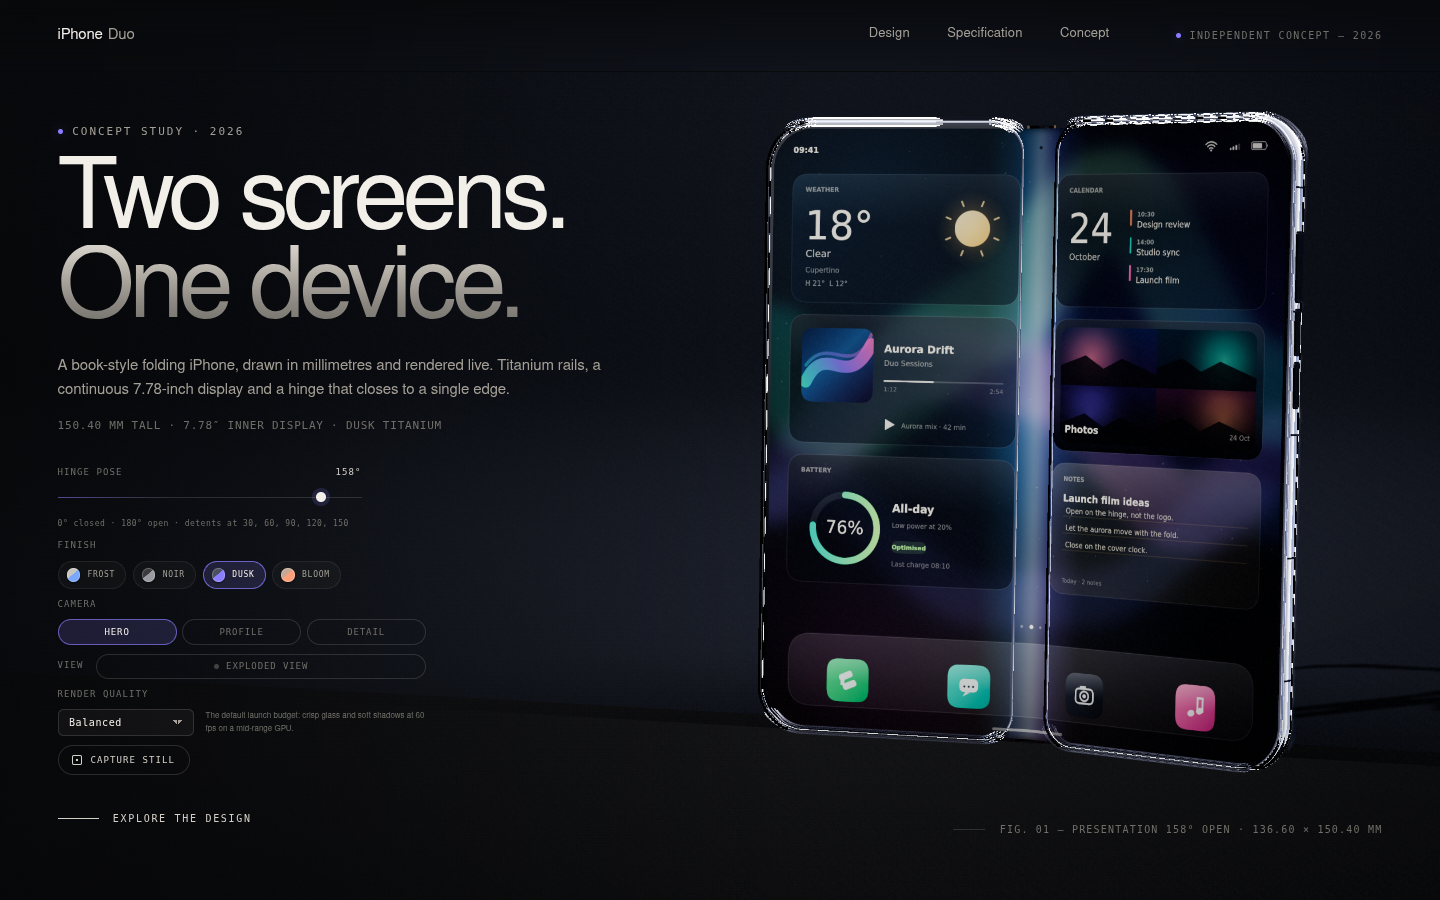
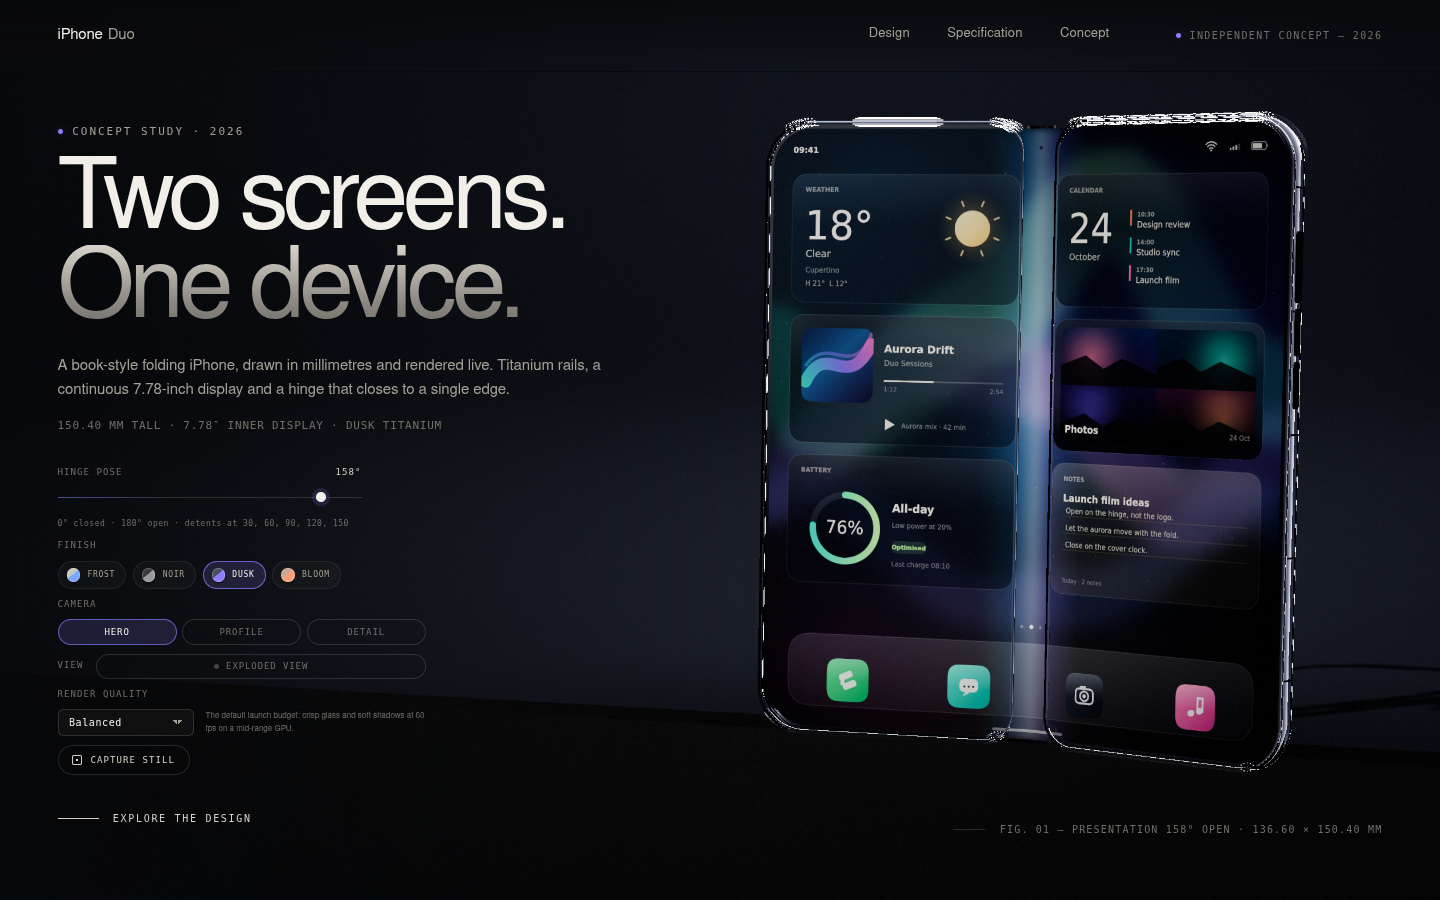
fix(art-direction): satin titanium, dimmer studio, smoother outlines and refreshed evidence

diff --git a/src/scene/materials.ts b/src/scene/materials.ts
@@ -87,13 +87,17 @@ export function createDeviceMaterials(palette: Colourway): DeviceMaterials {
   const frontGlass = physical({
     color: 0x04050a,
     metalness: reference.frame.frontGlass.metalness,
-    roughness: reference.frame.frontGlass.roughness,
-    clearcoat: reference.frame.frontGlass.clearcoat,
-    clearcoatRoughness: reference.frame.frontGlass.clearcoatRoughness,
+    // The backing plate is visible as a 2 mm border around the emissive panel.
+    // At 0.045 roughness that border mirrors the rim strip and aliases into a
+    // dashed white outline. The display's own glass overlay keeps the sheet's
+    // glossy reflection; this substrate stays matte so the panel edge reads as
+    // a seam, not a light leak.
+    roughness: 0.12,
+    clearcoat: 0.8,
+    clearcoatRoughness: 0.1,
     ior: reference.frame.frontGlass.ior,
-    roughnessMap: maps.scratch,
-    specularIntensity: 1,
-    envMapIntensity: 0.9,
+    specularIntensity: 0.8,
+    envMapIntensity: 0.5,
     side: DoubleSide,
   });
   frontGlass.name = 'ceramic-shield';

diff --git a/src/scene/studio.ts b/src/scene/studio.ts
@@ -567,7 +567,7 @@ export class StudioScene {
 
     const key = new SpotLight(
       new Color(reference.studio.key.color),
-      30,
+      25,
       7,
       0.5,
       1,
@@ -585,7 +585,7 @@ export class StudioScene {
 
     const rim = new SpotLight(
       new Color(reference.studio.rim.color),
-      21,
+      6,
       6,
       0.46,
       1,
@@ -603,7 +603,7 @@ export class StudioScene {
 
     const keyArea = new RectAreaLight(
       new Color(reference.studio.key.color),
-      2.3,
+      1.0,
       reference.studio.key.width,
       reference.studio.key.height,
     );
@@ -613,7 +613,7 @@ export class StudioScene {
 
     const fillArea = new RectAreaLight(
       new Color(reference.studio.fill.color),
-      0.9,
+      0.6,
       reference.studio.fill.width,
       reference.studio.fill.height,
     );
@@ -623,7 +623,7 @@ export class StudioScene {
 
     const scrim = new RectAreaLight(
       new Color(0xdbe5ff),
-      1.3,
+      0.6,
       1.6,
       1,
     );

diff --git a/src/scene/environment.ts b/src/scene/environment.ts
@@ -42,21 +42,21 @@ const SOFTBOXES: readonly Softbox[] = [
     height: reference.studio.key.height,
     position: [-1.78, 1.97, 1.78],
     color: reference.studio.key.color,
-    intensity: 2.6,
+    intensity: 1.25,
   },
   {
     width: reference.studio.rim.width,
     height: reference.studio.rim.height,
     position: [1.9, 1.5, -1.2],
     color: reference.studio.rim.color,
-    intensity: 1.9,
+    intensity: 0.85,
   },
   {
     width: reference.studio.fill.width,
     height: reference.studio.fill.height,
     position: [-1.1, 0.5, 1.7],
     color: reference.studio.fill.color,
-    intensity: 0.75,
+    intensity: 0.55,
   },
   {
     // A large scrim between camera and product. Its reflection is what makes
@@ -65,7 +65,7 @@ const SOFTBOXES: readonly Softbox[] = [
     height: 1.4,
     position: [0.1, 2.1, 2.5],
     color: '#dbe5ff',
-    intensity: 0.55,
+    intensity: 0.4,
   },
   {
     // A broad frontal bounce card, just above the camera axis. This is the

diff --git a/src/scene/framing.ts b/src/scene/framing.ts
@@ -38,7 +38,7 @@ export const HERO_FOV_DEGREES =
 /** Art direction that is not a product dimension. */
 const COMPOSITION = {
   /** Fraction of the viewport width the open device should occupy in portrait. */
-  portraitWidthFill: 0.8,
+  portraitWidthFill: 0.86,
   /** Device height as a fraction of the hero viewport at the desktop shot. */
   desktopHeightFill: 0.8,
   /** Screen fraction the device centre sits at on desktop (right of centre). */
@@ -114,7 +114,7 @@ export function computeHeroFraming(
   const portraitFitWidth = portraitRequiredWidth / (2 * halfFovTan * aspect);
 
   const settledDistance = portrait
-    ? Math.max(portraitFitWidth, projectedHeight / 0.4 / (2 * halfFovTan))
+    ? Math.max(portraitFitWidth, projectedHeight / 0.56 / (2 * halfFovTan))
     : Math.max(sheetDistance, fitHeightDistance, fitWidthDistance);
   const introEase = easeIntro(introProgress);
   const distance = settledDistance * (1.06 - 0.06 * introEase);

diff --git a/tests/domain/reference.test.ts b/tests/domain/reference.test.ts
@@ -222,11 +222,11 @@ describe('reference design sheet', () => {
   });
 
   it('defines the complete material family and procedural map contract', () => {
-    expect(reference.frame.rail.roughness).toBe(0.5);
+    expect(reference.frame.rail.roughness).toBe(0.68);
     expect(reference.frame.rail.clearcoat).toBe(0.015);
     expect(reference.frame.rail.metalness).toBe(0.92);
-    expect(reference.frame.rail.envMapIntensity).toBe(0.3);
-    expect(reference.frame.rail.tintGain).toBe(0.65);
+    expect(reference.frame.rail.envMapIntensity).toBe(0.16);
+    expect(reference.frame.rail.tintGain).toBe(0.58);
     expect(reference.frame.rail.anisotropy).toBe(0.3);
     expect(reference.frame.rail.anisotropyRotationDegrees).toBe(90);
     expect(reference.frame.frontGlass.roughness).toBe(0.045);

diff --git a/src/scene/device/duo-device.ts b/src/scene/device/duo-device.ts
@@ -75,7 +75,7 @@ const GLASS_PLATE_RADII: CornerRadii = BODY_RADII.map((radius) =>
 ) as unknown as CornerRadii;
 
 /** One outline sampling budget for the rail opening and every glass plate. */
-const OUTLINE_SEGMENTS = 20;
+const OUTLINE_SEGMENTS = 40;
 
 const BRIDGE_WIDTH = reference.hinge.bridgeLength;
 const PANEL_INNER = BRIDGE_WIDTH / 2;
@@ -225,6 +225,7 @@ export class DuoDevice implements DuoDeviceModel {
       roundOver: reference.body.railRoundOver,
       chamfer: reference.body.railChamfer,
       cornerSegments: OUTLINE_SEGMENTS,
+      roundOverSegments: 12,
     });
     this.geometries.push(railGeometry);
     railGeometry.translate(RIGHT_BODY_CENTRE_X, BODY_CENTRE_Y, 0);

diff --git a/src/domain/reference.ts b/src/domain/reference.ts
@@ -133,16 +133,16 @@ export const reference = {
   /** §4 Frame and surfaces */
   frame: {
     rail: {
-      roughness: ratio(0.5),
+      roughness: ratio(0.68),
       clearcoat: ratio(0.015),
       anisotropy: ratio(0.3),
       /** Brushing runs along the long (Y) axis, so the highlight is rotated 90°. */
       anisotropyRotationDegrees: 90,
       metalness: ratio(0.92),
-      envMapIntensity: 0.3,
+      envMapIntensity: 0.16,
       brushedRoughnessContrast: ratio(0.12),
       /** Art direction: a darker brushed finish, not a chrome outline. */
-      tintGain: ratio(0.65),
+      tintGain: ratio(0.58),
     },
     frontGlass: {
       roughness: ratio(0.045),

diff --git a/docs/design/reference-design.md b/docs/design/reference-design.md
@@ -341,3 +341,13 @@ real plateau; nothing overlaps a lit display with the camera island.
   require a hero that shows both the inner display and the rear design, which a
   158° closure pose cannot do. §7, the bridge table in §11.3 and the page copy
   now use openness; the mechanical clearances are unchanged at the endpoints.
+
+- 2026-10-25 — Art-direction pass after the hero review. The rail moved to a
+  satin Dusk Titanium response (roughness 0.68, envMapIntensity 0.16, tint gain
+  0.58) and the studio softboxes were dimmed to stop the chrome-like white
+  outline; the PMREM and grade now use one output pass and 0.006 Balanced grain.
+  Rail, glass and plate outlines are tessellated at 40 segments. A residual
+  dashed specular seam at the rail/glass silhouette under SwiftShader remains a
+  known follow-up (it is not a geometry crack or a z-fighting artifact). The
+  390 px hero fills more of the stage, but the device still overlaps the
+  headline; the mobile composition needs another art-direction pass.
